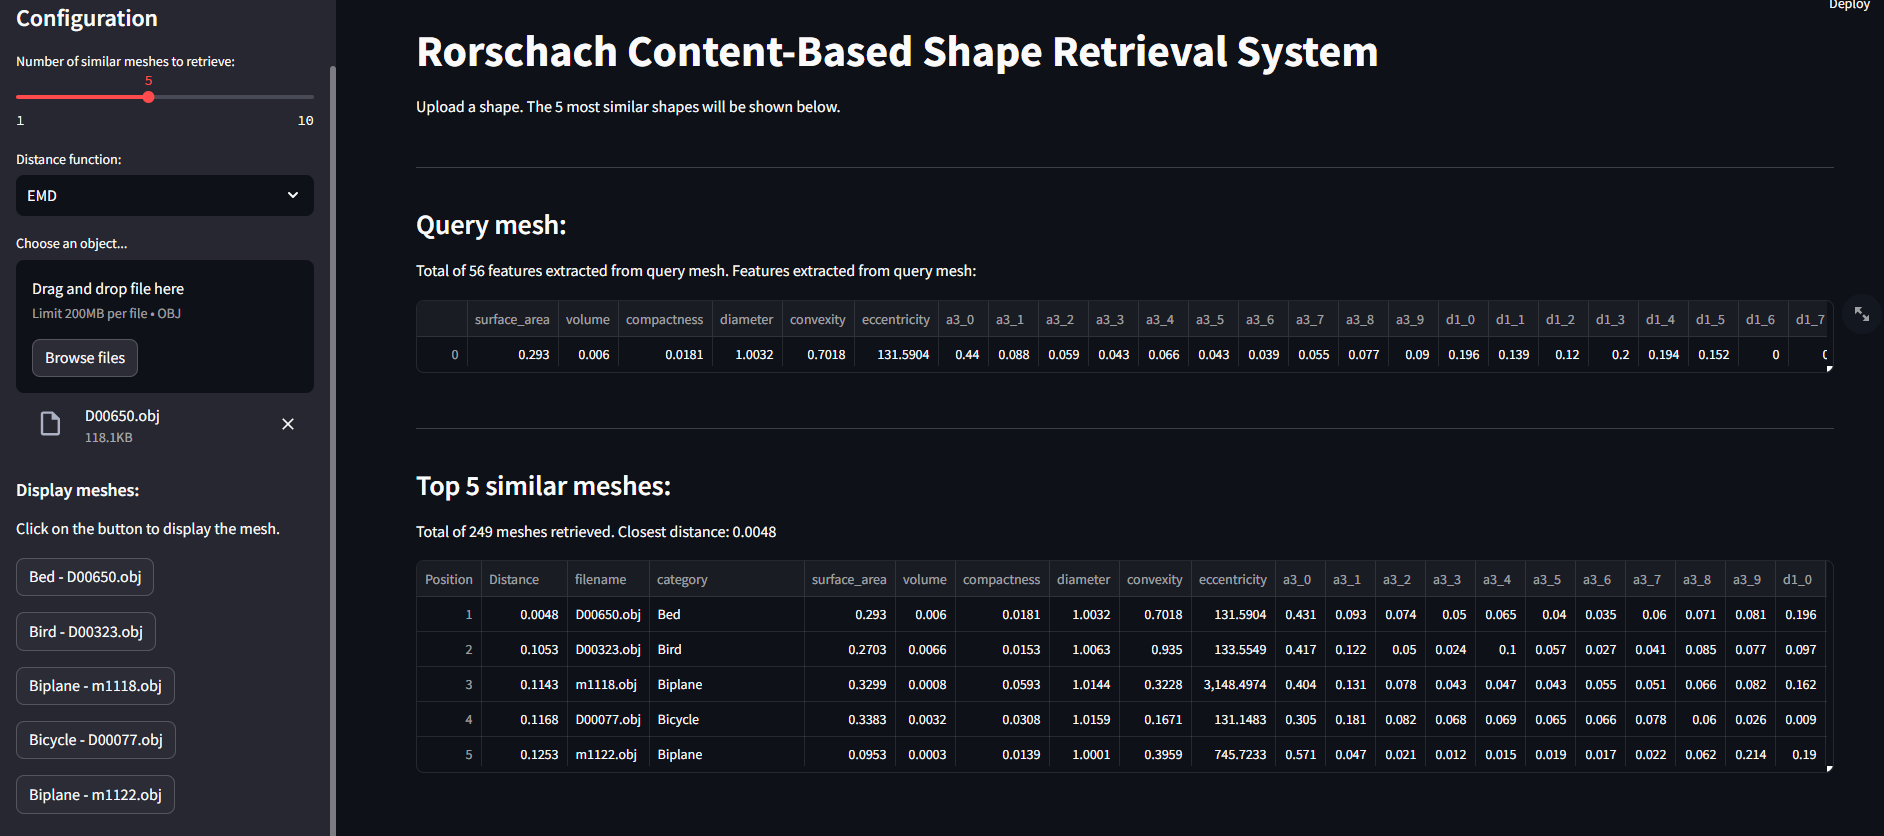
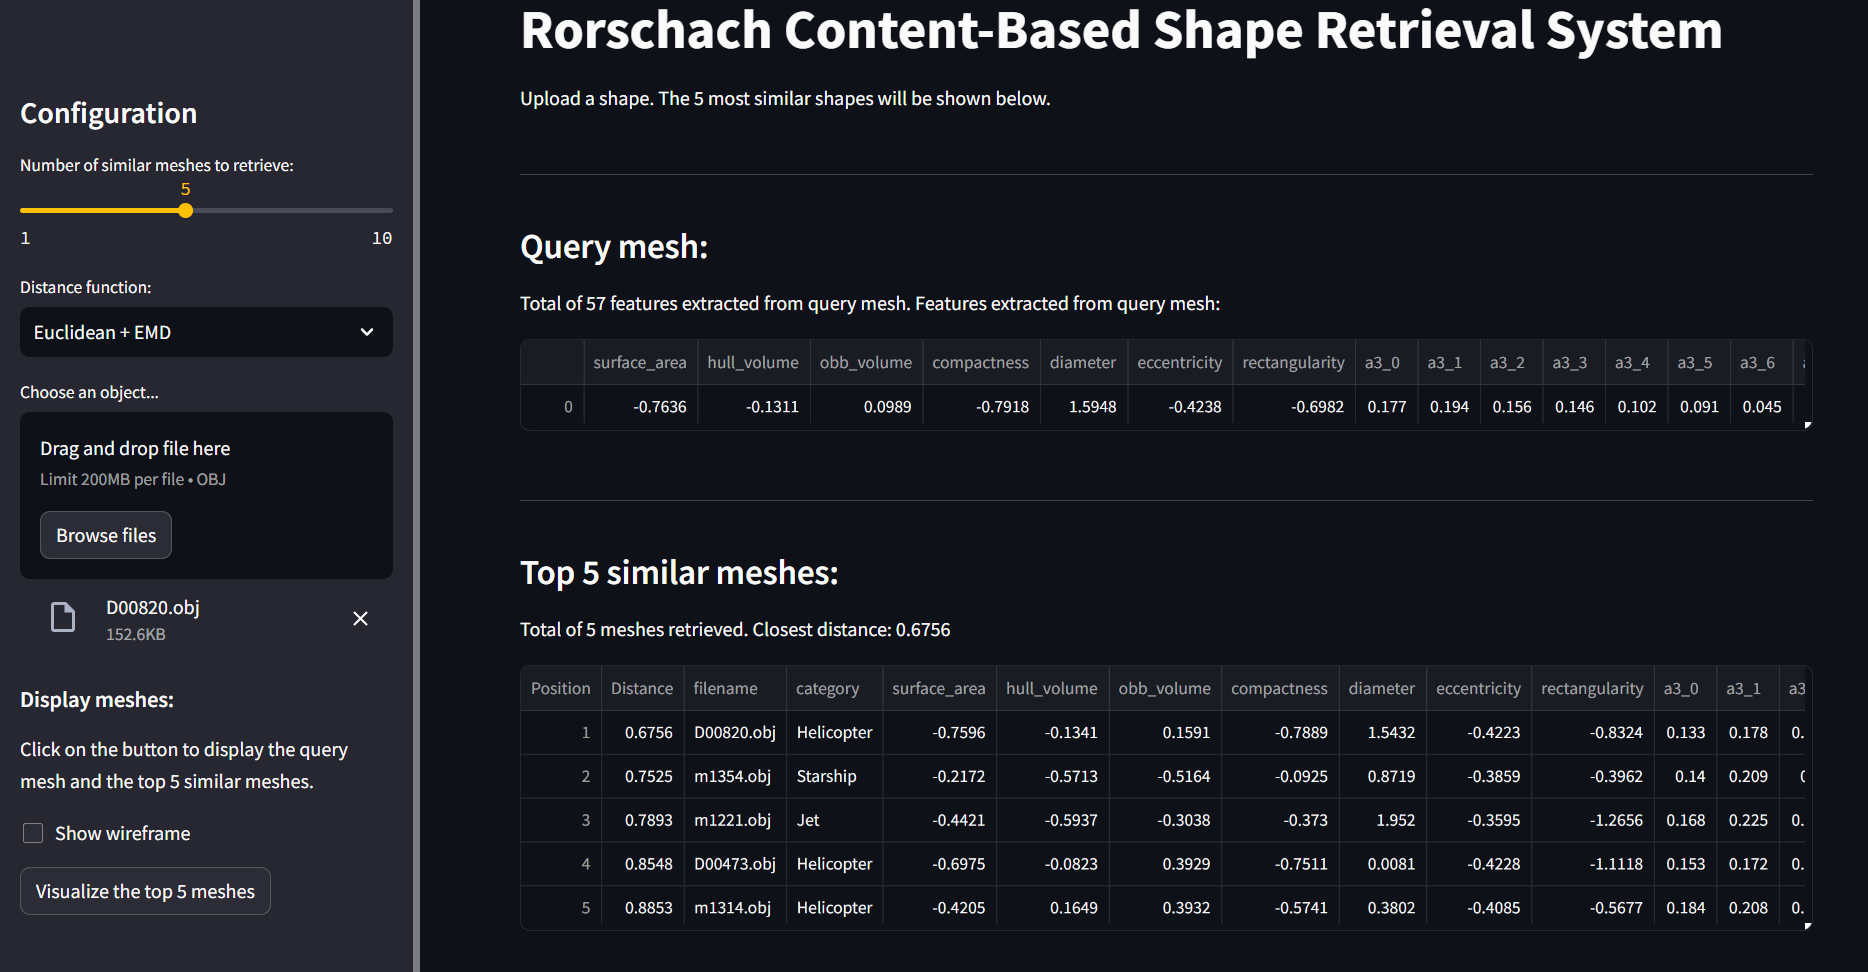
updated frontend with new distance function

Changed region(s): [[0.0, 0.0, 0.9625, 1.0], [0.0, 0.0, 0.0931, 0.0311], [0.9625, 0.0, 0.9936, 0.0311]]

diff --git a/Rorschach/querying/query.py b/Rorschach/querying/query.py
@@ -118,10 +118,10 @@ def get_k_closest(query_features: np.ndarray, features: np.ndarray, k: int, dist
 
 
 def return_dist_func(selector: str):
-    selector_dict = {"Manhattan": get_manhattan_distance,
-                     "Euclidean": get_euclidean_distance,
-                     "Cosine": get_cosine_distance,
-                     "EMD": wasserstein_distance,
+    selector_dict = {"EMD only": wasserstein_distance,
+                     "Manhattan + EMD": get_manhattan_distance,
+                     "Euclidean + EMD": get_euclidean_distance,
+                     "Cosine + EMD": get_cosine_distance,
                      "KNN": "KNN"}
 
     return selector_dict[selector]

diff --git a/Rorschach/querying/frontend.py b/Rorschach/querying/frontend.py
@@ -57,7 +57,7 @@ st.set_page_config(page_title="Rorschach CBSR",
 # Sidebar
 st.sidebar.title("Configuration")
 TOP_N = st.sidebar.slider("Number of similar meshes to retrieve:", min_value=1, max_value=10, value=TOP_N, step=1)
-distance_func = st.sidebar.selectbox("Distance function:", ("Manhattan", "Euclidean", "Cosine", "EMD", "KNN"))
+distance_func = st.sidebar.selectbox("Distance function:", ["EMD only", "Manhattan + EMD", "Euclidean + EMD", "Cosine + EMD", "KNN"])
 
 distance_func = return_dist_func(distance_func)  # Convert string to callable
 
